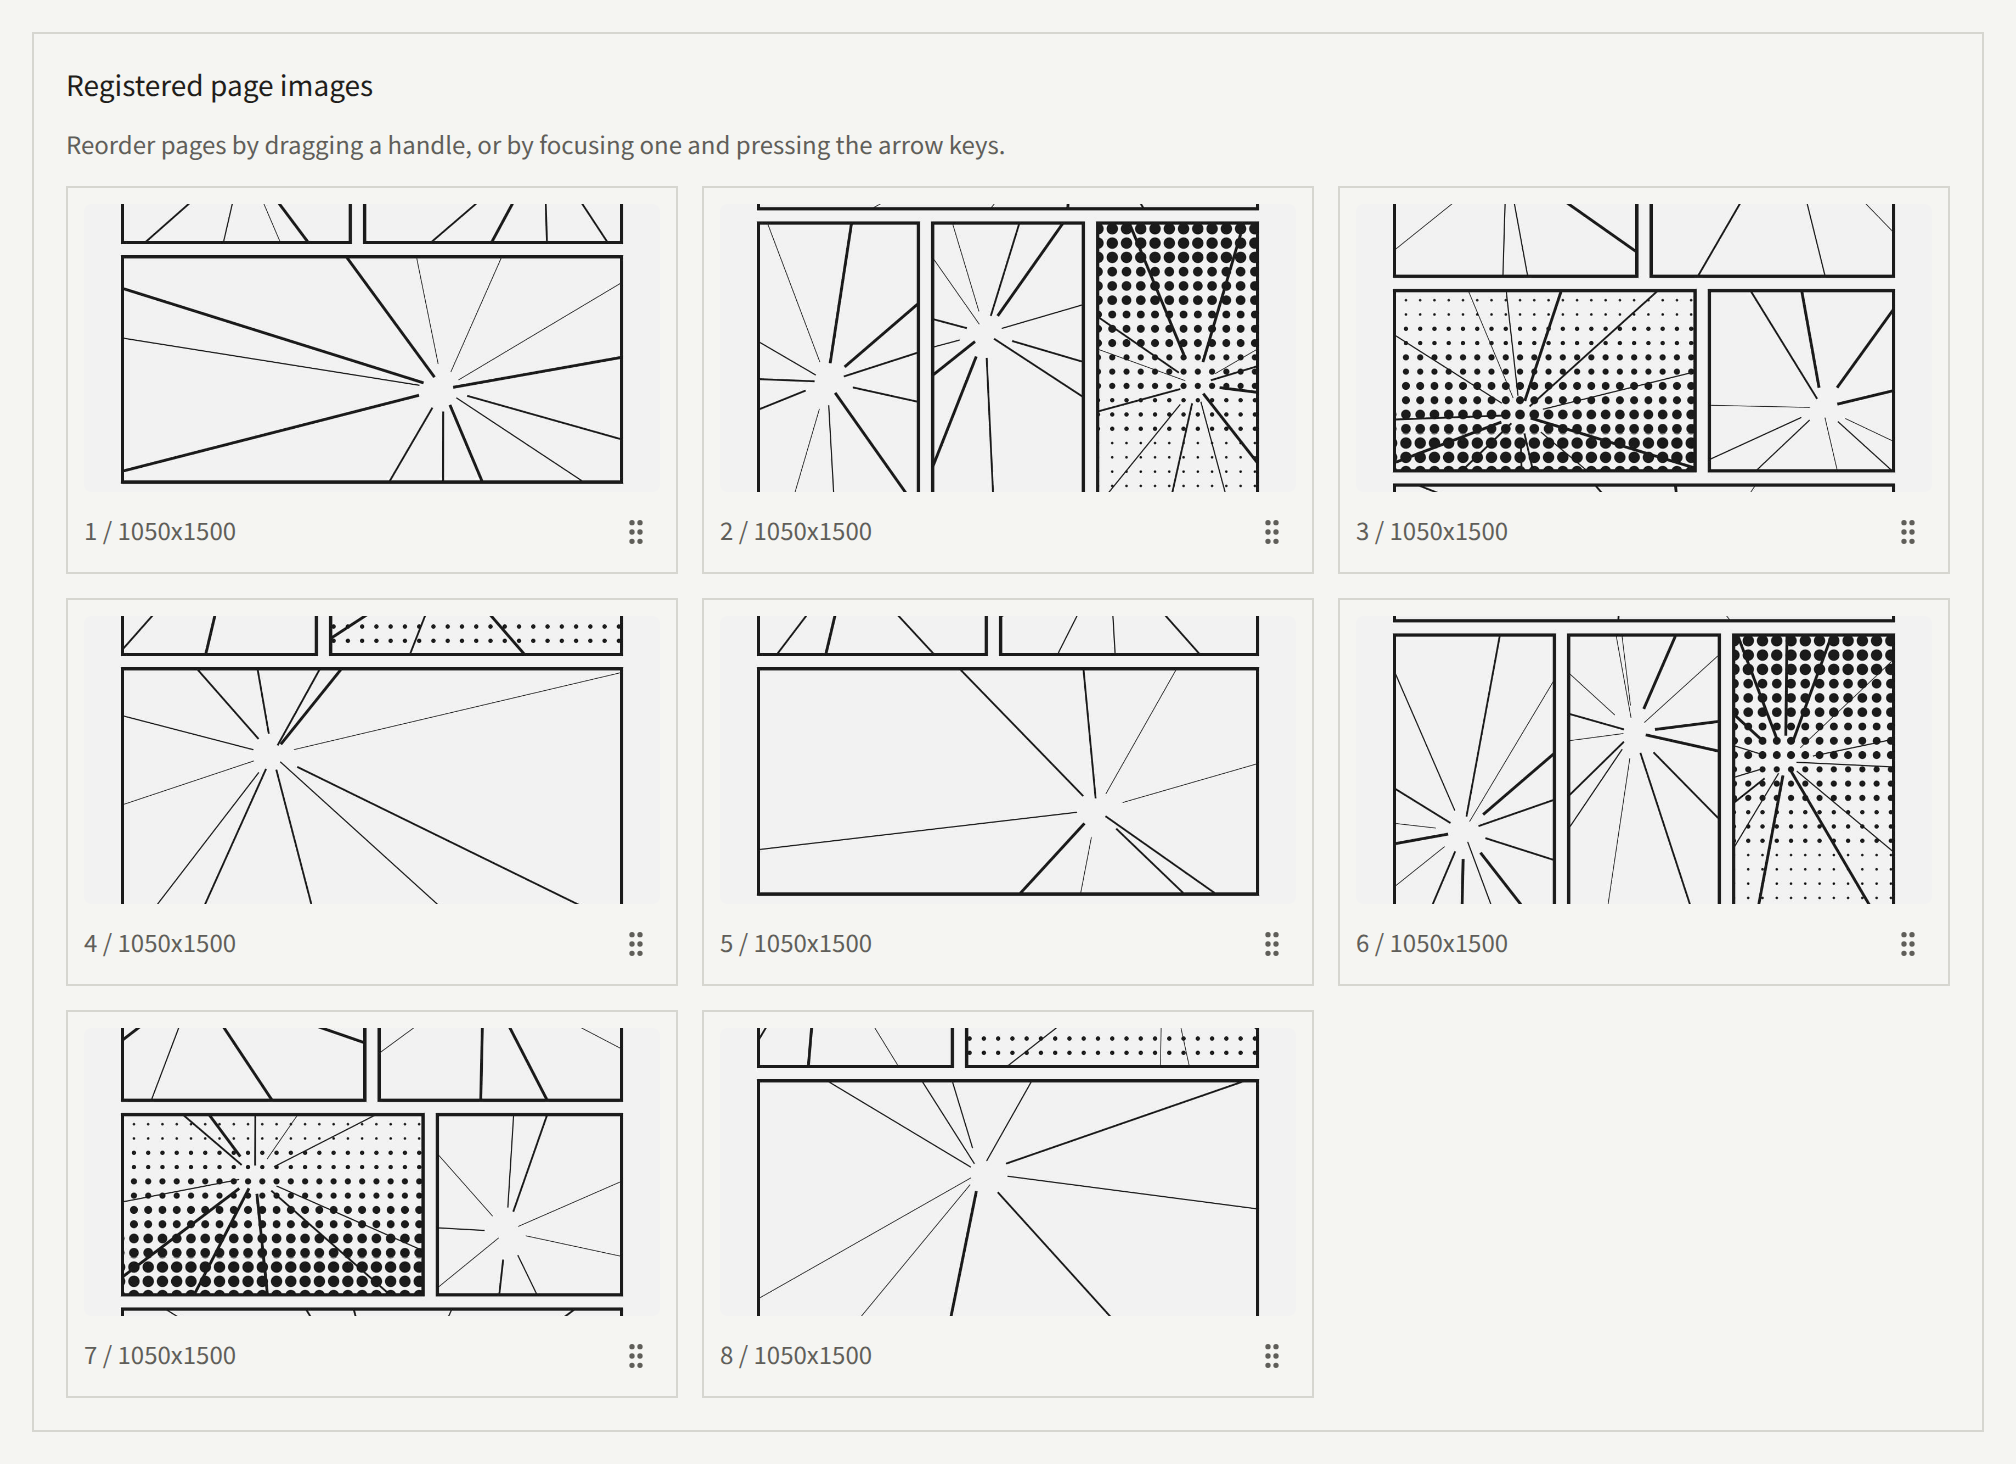
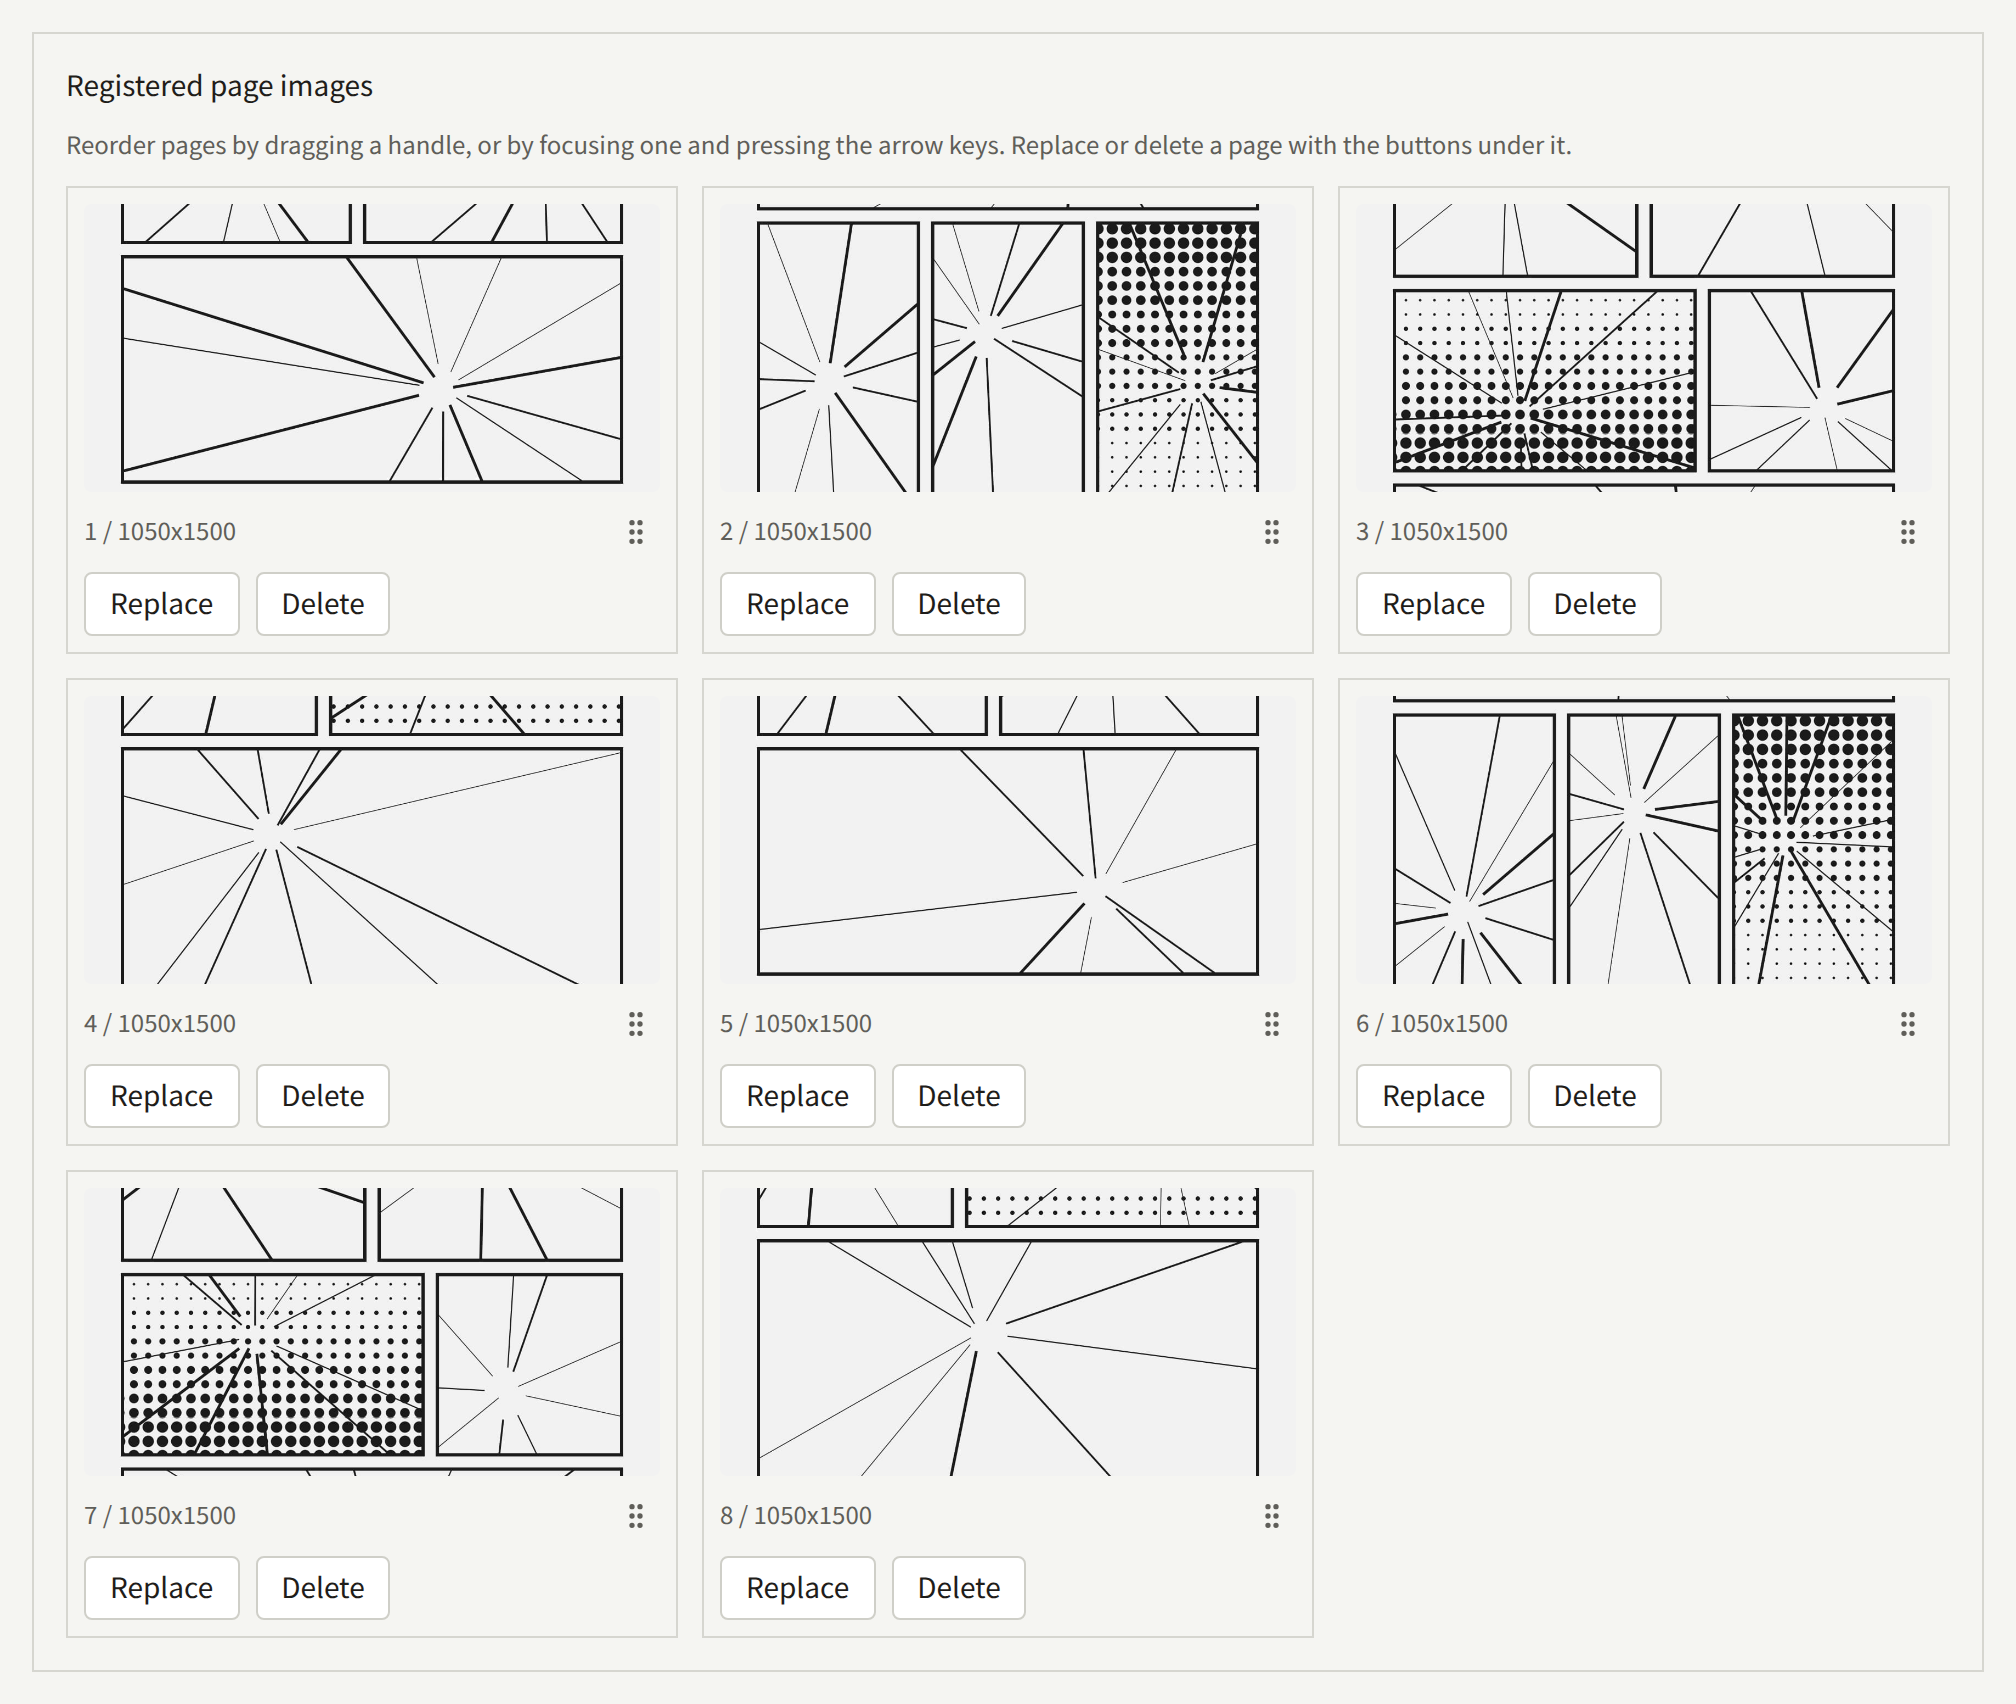
test(e2e): cover renaming an episode and editing its pages, and photograph both for the docs
Assisted-by: Claude Code:claude-opus-5-5

Changed region(s): [[0.0312, 0.0307, 0.9688, 0.9836], [0.3438, 0.4918, 0.625, 0.8607]]

diff --git a/e2e/tests/admin.episode-editing.spec.ts b/e2e/tests/admin.episode-editing.spec.ts
@@ -10,6 +10,9 @@ import { noisePng } from "../src/page-archive";
 import { uniqueSuffix } from "../src/scenarios/admin-publish";
 import { WEB_ADMIN_BASE_URL } from "../src/urls";
 
+/** An image `src` naming the image at `path`, whatever media token follows. */
+const showing = (path: string) => new RegExp(`^${path}\\?`, "u");
+
 /**
  * What an editor changes on an episode after it was created: its title, and
  * one page at a time. The replacing image is larger than a Server Action body
@@ -66,6 +69,14 @@ test.describe("admin episode editing", () => {
     const pageImage = (position: number) =>
       pages.getByRole("img", { exact: true, name: `Page ${position}` });
     await expect(pages.getByRole("listitem")).toHaveCount(3);
+    /**
+     * The image a page shows, by its path: the query carries a media token
+     * that is signed again on every read.
+     */
+    const imagePath = async (position: number): Promise<string> => {
+      const src = (await pageImage(position).getAttribute("src")) ?? "";
+      return src.split("?")[0] ?? "";
+    };
 
     // The title.
     const renamed = `E2E Episode Editing Renamed ${suffix}`;
@@ -79,7 +90,7 @@ test.describe("admin episode editing", () => {
     // Replacing the second page leaves the first and the third where they
     // were. 2000x1900 RGB noise is about 11 MB, which no compression shrinks.
     const [firstBefore, secondBefore, thirdBefore] = await Promise.all(
-      [1, 2, 3].map((position) => pageImage(position).getAttribute("src"))
+      [1, 2, 3].map(imagePath)
     );
     await page.getByRole("button", { name: "Replace page 2" }).click();
     const replaceDialog = page.getByRole("dialog", { name: "Replace page 2" });
@@ -94,10 +105,13 @@ test.describe("admin episode editing", () => {
     });
     await expect(replaceDialog).toBeHidden();
     await expect(pages.getByRole("listitem")).toHaveCount(3);
-    await expect(pageImage(2)).not.toHaveAttribute("src", secondBefore ?? "");
-    await expect(pageImage(1)).toHaveAttribute("src", firstBefore ?? "");
-    await expect(pageImage(3)).toHaveAttribute("src", thirdBefore ?? "");
-    const secondAfter = await pageImage(2).getAttribute("src");
+    await expect(pageImage(2)).not.toHaveAttribute(
+      "src",
+      showing(secondBefore)
+    );
+    await expect(pageImage(1)).toHaveAttribute("src", showing(firstBefore));
+    await expect(pageImage(3)).toHaveAttribute("src", showing(thirdBefore));
+    const secondAfter = await imagePath(2);
 
     // Deleting the first page moves the others up one place.
     await page.getByRole("button", { name: "Delete page 1" }).click();
@@ -107,11 +121,13 @@ test.describe("admin episode editing", () => {
       .click();
     await expect(page.getByText("Page deleted.")).toBeVisible();
     await expect(pages.getByRole("listitem")).toHaveCount(2);
-    await expect(pageImage(1)).toHaveAttribute("src", secondAfter ?? "");
-    await expect(pageImage(2)).toHaveAttribute("src", thirdBefore ?? "");
+    await expect(pageImage(1)).toHaveAttribute("src", showing(secondAfter));
+    await expect(pageImage(2)).toHaveAttribute("src", showing(thirdBefore));
 
     // The episode list names the episode by its new title.
     await page.goto(`${WEB_ADMIN_BASE_URL}/series/${seriesId}/episodes`);
-    await expect(page.getByText(renamed)).toBeVisible();
+    await expect(
+      page.getByRole("checkbox", { exact: true, name: `Select ${renamed}` })
+    ).toBeVisible();
   });
 });

diff --git a/e2e/tests/admin.tenant-roles.spec.ts b/e2e/tests/admin.tenant-roles.spec.ts
@@ -127,8 +127,14 @@ test.describe("tenant roles in the console", () => {
       exact: true,
       name: "Registered page images",
     });
-    await expect(episodePages.getByRole("listitem").first()).toBeVisible();
-    await expect(episodePages.getByRole("button")).toHaveCount(0);
+    await expect(
+      episodePages.getByRole("img", { exact: true, name: "Page 1" })
+    ).toBeVisible();
+    await expect(
+      episodePages.getByRole("button", {
+        name: /^(?:Reorder|Replace|Delete) page /u,
+      })
+    ).toHaveCount(0);
 
     // A screen whose whole purpose is to write is not there at all.
     await expectNotFound(page, "/series/new");
